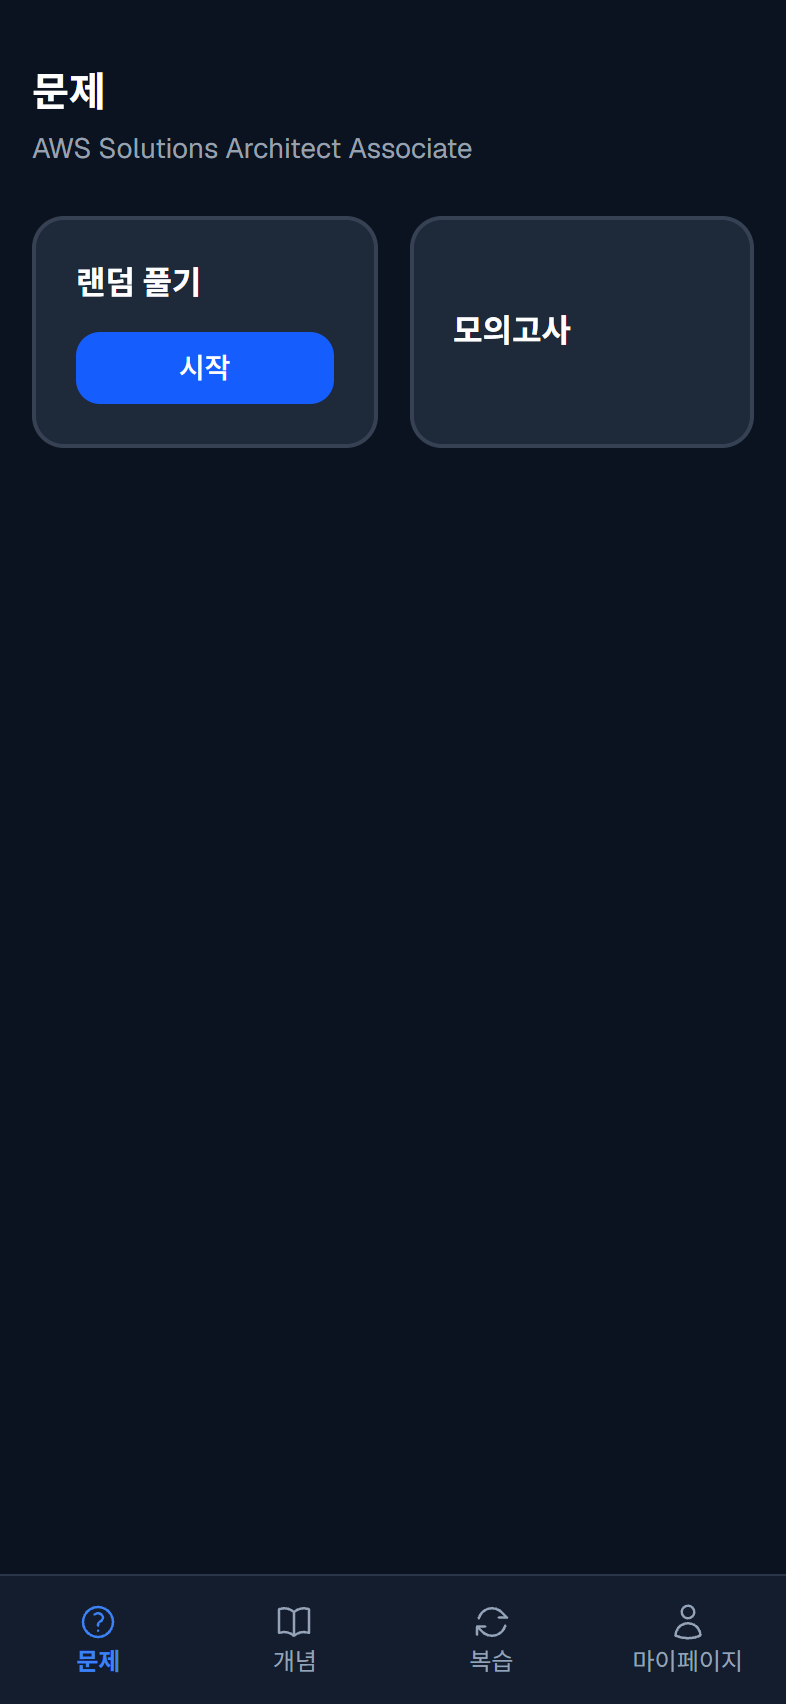
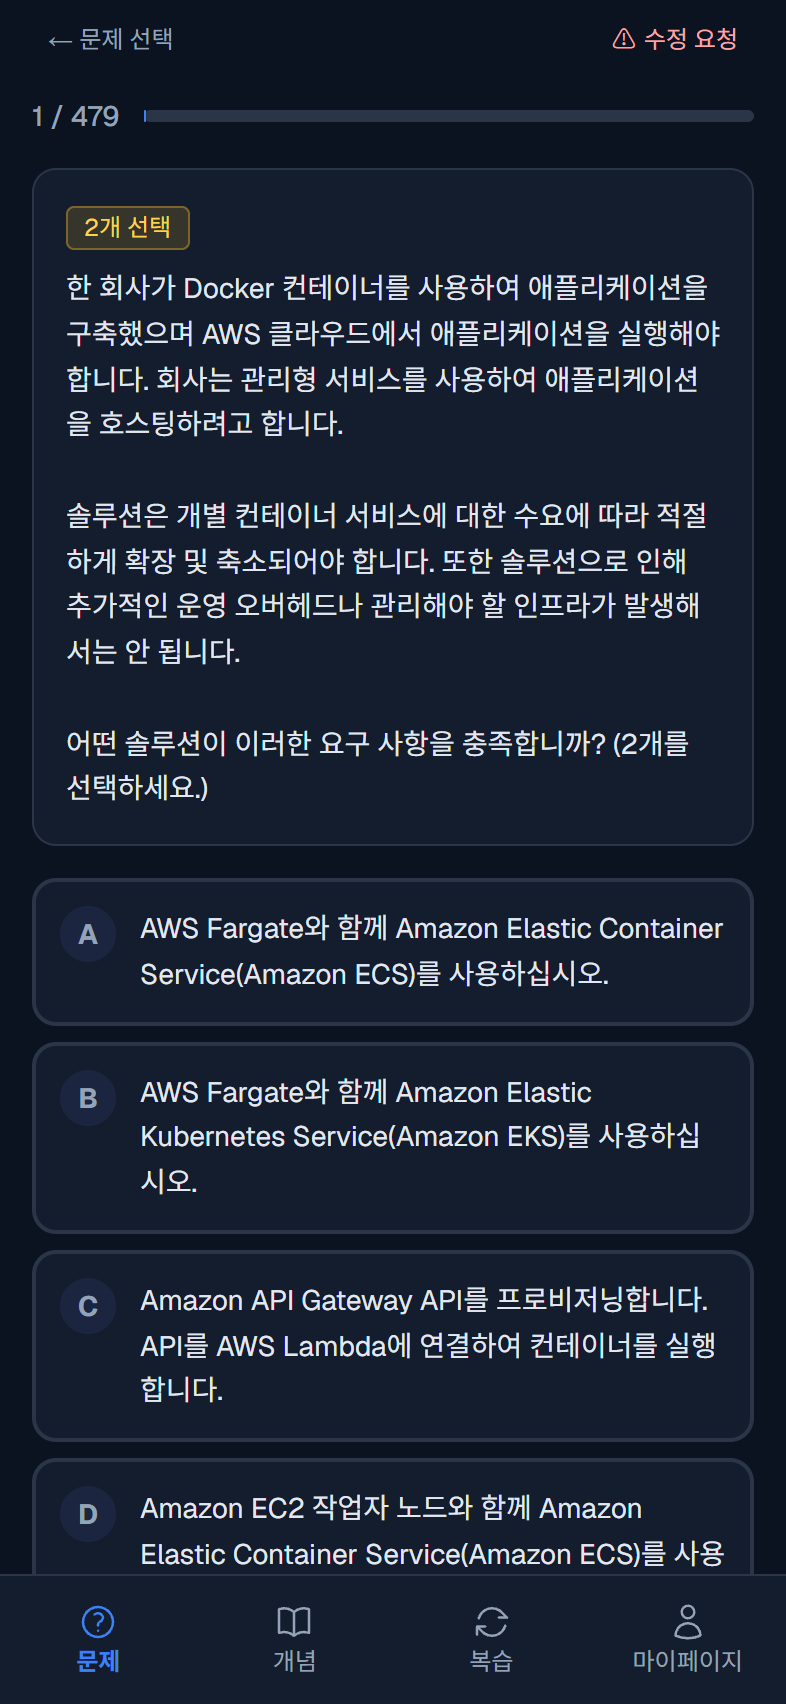
docs: detailed question flow screenshots + CLF backlog (#7)
* docs: add questions.png

* docs: add questions-result.png

* docs: add questions-explanation.png

* docs: add questions-report.png

* docs: detailed question screenshots + CLF translation backlog

diff --git a/README.md b/README.md
@@ -51,6 +51,18 @@ AWS SAA-C03 (Solutions Architect Associate) 및 CLF-C02 (Cloud Practitioner) 시
   <img src="./public/screenshots/questions.png" alt="문제풀기 화면" width="300" />
 </p>
 
+<p align="center">
+  <img src="./public/screenshots/questions-result.png" alt="정답 확인 후" width="300" />
+</p>
+
+<p align="center">
+  <img src="./public/screenshots/questions-explanation.png" alt="해설 보기" width="300" />
+</p>
+
+<p align="center">
+  <img src="./public/screenshots/questions-report.png" alt="수정 요청 시트" width="300" />
+</p>
+
 ---
 
 ### 📋 모의고사
@@ -151,6 +163,7 @@ AWS 서비스 사전으로, 카테고리별로 서비스를 탐색할 수 있습
 |---|------|------|
 | 1 | CLF 개념 탭 상세 정보 | 서비스별 설명, 주요 특징, 유스케이스, 시험 팁, 과금 방식 추가 |
 | 2 | CLF 서비스 빈출도 표시 | CLF 문제 데이터 기반 빈출도 집계 및 개념 탭에 표시 |
+| 3 | CLF 문제 한국어 번역 | 현재 영문으로만 제공되는 CLF 문제들의 지문, 선지, 해설 한국어 번역 |
 
 ### 🟡 P1 — 미완성 기능
 
